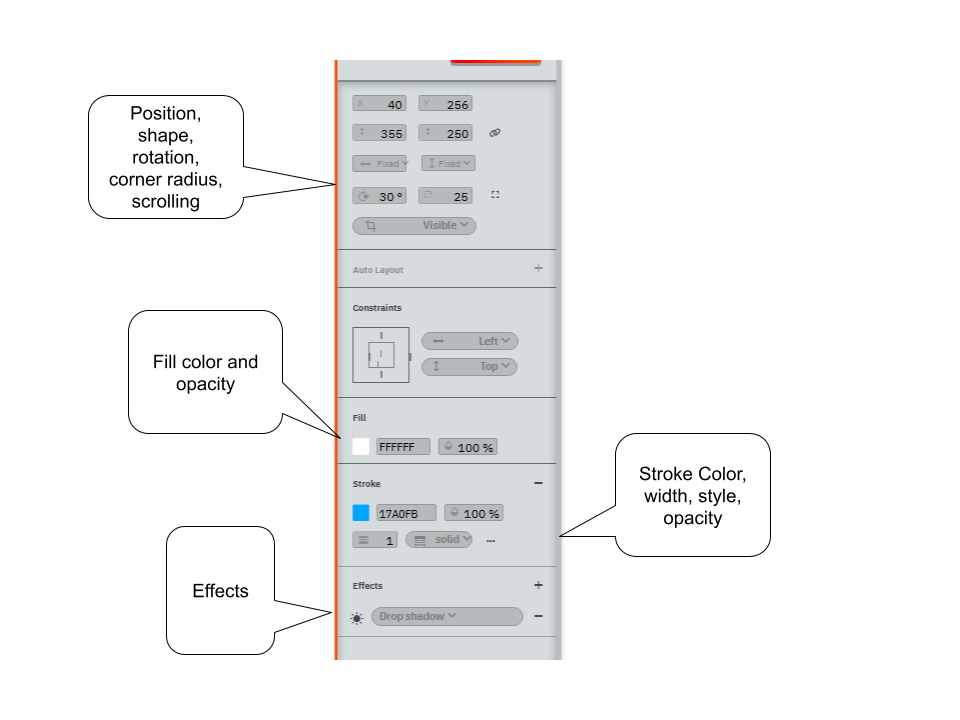
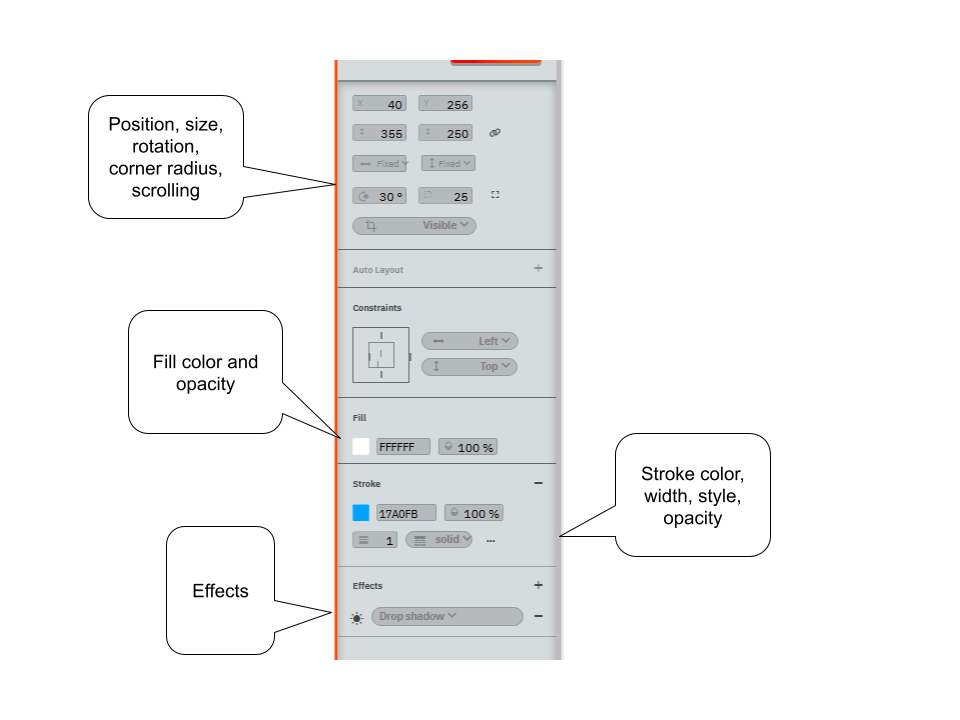
addressed issues

Changed region(s): [[0.0938, 0.1528, 0.25, 0.3056], [0.6562, 0.6417, 0.7812, 0.6722]]

diff --git a/docs/data_architecture/tables.md b/docs/data_architecture/tables.md
@@ -40,4 +40,4 @@ And the first data row is:
 ```
    ["100% Bran","N","C",70,10,68.402973]
 ```
-Tables available to the user can be found by Clicking the Galyleo Service item on the menu bar, which will bring up the Galyleo Service in a new JupyterLab tab.  The tables available to the user are also always displayed in the Tables tab in the side bar.
+Tables available to the user can be found by clicking the Galyleo Service item on the menu bar, which will bring up the Galyleo Service in a new JupyterLab tab.  The tables available to the user are also always displayed in the Tables tab in the side bar.
